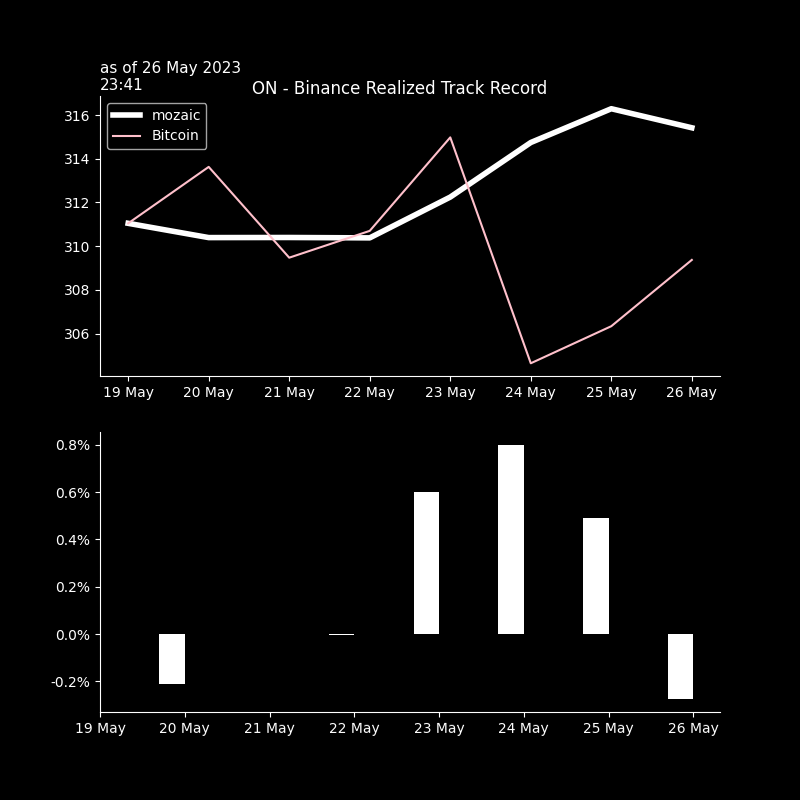
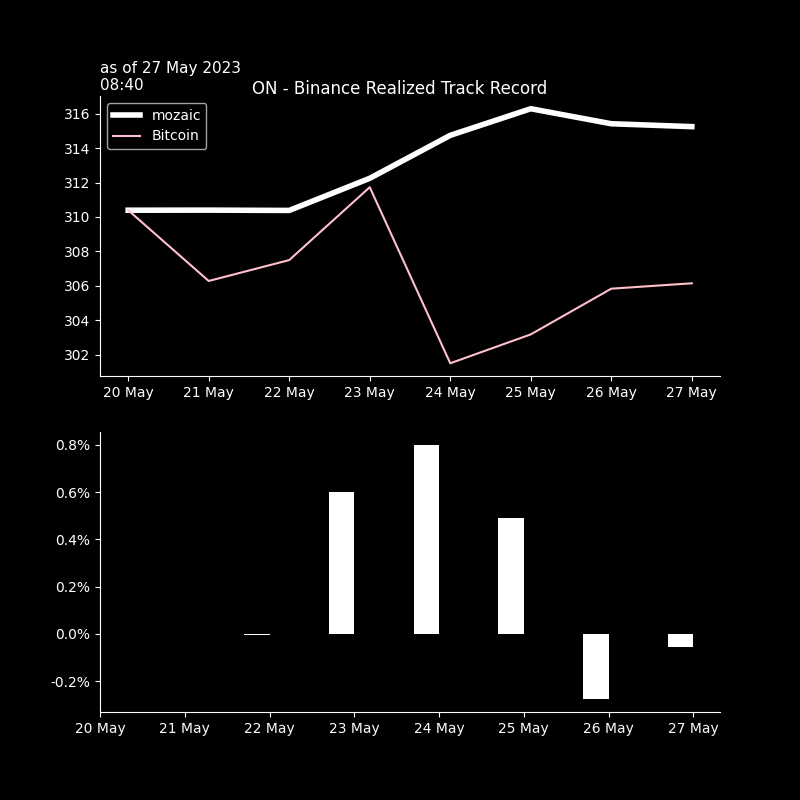
seb_commit

diff --git a/crypto/graphs/bt_trades_pnlD_recap.htmltrade_trades_pnlD_recap.html b/crypto/graphs/bt_trades_pnlD_recap.htmltrade_trades_pnlD_recap.html
@@ -1,7 +1,7 @@
 <table border="1" class="dataframe">
   <thead>
     <tr style="text-align: right;">
-      <th>26 May 12:29</th>
+      <th>27 May 08:39</th>
       <th>realizedPnl</th>
       <th>PnLvsArrival</th>
       <th>PnLvsLast</th>
@@ -10,19 +10,19 @@
   <tbody>
     <tr>
       <th>in$</th>
-      <td>0.0</td>
+      <td>-0.3</td>
       <td>0.0</td>
       <td>0.0</td>
     </tr>
     <tr>
-      <th>in bp 15 traded</th>
+      <th>in bp 16 traded</th>
+      <td>-174 bp</td>
       <td>0 bp</td>
-      <td>6 bp</td>
       <td>0 bp</td>
     </tr>
     <tr>
       <th>in bp 315 AUMs</th>
-      <td>0 bp</td>
+      <td>-9 bp</td>
       <td>0 bp</td>
       <td>0 bp</td>
     </tr>

diff --git a/crypto/graphs/bt_trades_recap.htmltrade_trades_recap.html b/crypto/graphs/bt_trades_recap.htmltrade_trades_recap.html
@@ -9,13 +9,13 @@
   <tbody>
     <tr>
       <th>as of</th>
-      <td>26May 11:29&gt;&gt;11:29</td>
+      <td>27May 07:39&gt;&gt;07:39</td>
       <td>#trades: 1</td>
     </tr>
     <tr>
       <th>trade net</th>
-      <td>-16.0</td>
-      <td>-5.1%</td>
+      <td>+16.0</td>
+      <td>+5.1%</td>
     </tr>
     <tr>
       <th>trade gross</th>
@@ -24,13 +24,13 @@
     </tr>
     <tr>
       <th>BUY</th>
-      <td>+0.0</td>
-      <td>+0.0%</td>
+      <td>+16.0</td>
+      <td>+5.1%</td>
     </tr>
     <tr>
       <th>SELL</th>
-      <td>-16.0</td>
-      <td>-5.1%</td>
+      <td>+0.0</td>
+      <td>+0.0%</td>
     </tr>
     <tr>
       <th>fees</th>

diff --git a/crypto/graphs/bt_trades_book.htmltrade_trades_book.html b/crypto/graphs/bt_trades_book.htmltrade_trades_book.html
@@ -38,18 +38,18 @@
   <tbody>
     <tr>
       <th>XRPUSDT</th>
-      <td>0.4649</td>
-      <td>2023-05-26 11:29:14</td>
-      <td>-34</td>
-      <td>$-15.8</td>
+      <td>0.473</td>
+      <td>2023-05-27 07:39:51</td>
+      <td>34</td>
+      <td>$16.1</td>
       <td>$0.00</td>
       <td>2.0</td>
+      <td>-0.3</td>
+      <td>0.47305</td>
+      <td>2023-05-27 08:39</td>
       <td>0.0</td>
-      <td>0.46465</td>
-      <td>2023-05-26 12:28</td>
       <td>0.0</td>
-      <td>6.0</td>
-      <td>.465</td>
+      <td>.473</td>
       <td>-0.0</td>
       <td>-0.0</td>
     </tr>
